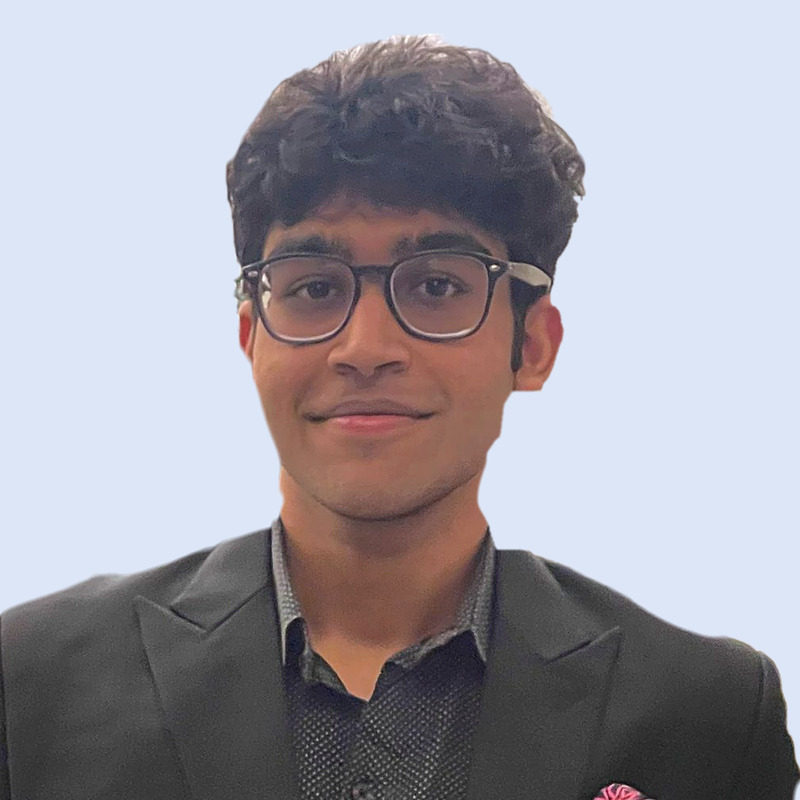
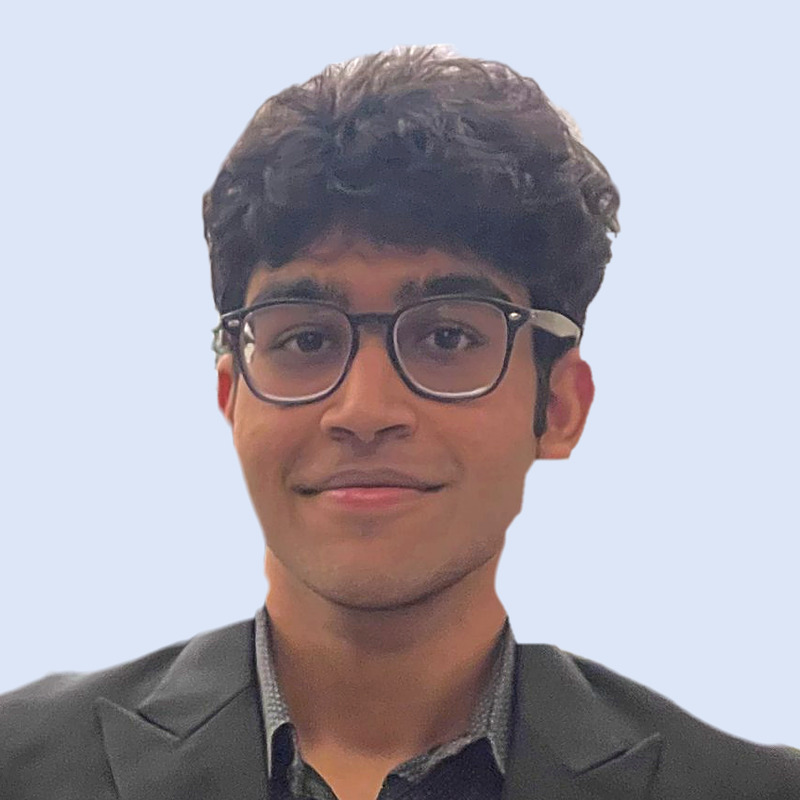
Yash photo: balanced head-and-shoulders crop

diff --git a/about.html b/about.html
@@ -4,7 +4,7 @@
 <link rel="icon" href="assets/img/mark.png">
 <link rel="preconnect" href="https://fonts.googleapis.com"><link rel="preconnect" href="https://fonts.gstatic.com" crossorigin>
 <link href="https://fonts.googleapis.com/css2?family=Hanken+Grotesk:wght@400;500;600;700&family=Inter:wght@400;500;600&family=Manrope:wght@500;700;800&display=swap" rel="stylesheet">
-<link rel="stylesheet" href="assets/styles.css?v=1795847601"></head>
+<link rel="stylesheet" href="assets/styles.css?v=1795847630"></head>
 <body><header class="site-header"><div class="wrap bar">
 <a class="logo" href="index.html" aria-label="ARRON home"><img src="assets/img/logo.png" alt="ARRON — Ahead of now" width="960" height="234" style="height:54px;width:auto;max-width:none;flex:none;aspect-ratio:960/234"></a>
 <button class="burger" aria-label="Menu"><span></span><span></span></button>
@@ -37,4 +37,4 @@
 <div><h4>Industries</h4><ul><li><a href="banking.html">Banking & Financial Services</a></li><li><a href="manufacturing.html">Manufacturing</a></li><li><a href="retail.html">Retail & Consumer</a></li><li><a href="telecom.html">Telecom</a></li><li><a href="healthcare.html">Healthcare</a></li></ul></div>
 <div><h4>Company</h4><ul><li><a href="about.html">About ARRON</a></li><li><a href="proven-experience.html">Proven Experience</a></li><li><a href="insights.html">Our Insights</a></li><li><a href="careers.html">Careers</a></li><li><a href="mailto:RajitM@arrontechnologies.com">RajitM@arrontechnologies.com</a></li><li><a href="mailto:Annad@arrontechnologies.com">Annad@arrontechnologies.com</a></li></ul></div></div>
 <div class="fb"><span>© 2026 ARRON Technologies. All rights reserved.</span><span>Dallas, Texas · Louisville · Houston · Delhi NCR · Pune · Bangalore</span></div></div></footer>
-<script src="assets/main.js?v=1795847601"></script></body></html>
+<script src="assets/main.js?v=1795847630"></script></body></html>

diff --git a/ai.html b/ai.html
@@ -4,7 +4,7 @@
 <link rel="icon" href="assets/img/mark.png">
 <link rel="preconnect" href="https://fonts.googleapis.com"><link rel="preconnect" href="https://fonts.gstatic.com" crossorigin>
 <link href="https://fonts.googleapis.com/css2?family=Hanken+Grotesk:wght@400;500;600;700&family=Inter:wght@400;500;600&family=Manrope:wght@500;700;800&display=swap" rel="stylesheet">
-<link rel="stylesheet" href="assets/styles.css?v=1795847601"></head>
+<link rel="stylesheet" href="assets/styles.css?v=1795847630"></head>
 <body><header class="site-header"><div class="wrap bar">
 <a class="logo" href="index.html" aria-label="ARRON home"><img src="assets/img/logo.png" alt="ARRON — Ahead of now" width="960" height="234" style="height:54px;width:auto;max-width:none;flex:none;aspect-ratio:960/234"></a>
 <button class="burger" aria-label="Menu"><span></span><span></span></button>
@@ -26,4 +26,4 @@
 <div><h4>Industries</h4><ul><li><a href="banking.html">Banking & Financial Services</a></li><li><a href="manufacturing.html">Manufacturing</a></li><li><a href="retail.html">Retail & Consumer</a></li><li><a href="telecom.html">Telecom</a></li><li><a href="healthcare.html">Healthcare</a></li></ul></div>
 <div><h4>Company</h4><ul><li><a href="about.html">About ARRON</a></li><li><a href="proven-experience.html">Proven Experience</a></li><li><a href="insights.html">Our Insights</a></li><li><a href="careers.html">Careers</a></li><li><a href="mailto:RajitM@arrontechnologies.com">RajitM@arrontechnologies.com</a></li><li><a href="mailto:Annad@arrontechnologies.com">Annad@arrontechnologies.com</a></li></ul></div></div>
 <div class="fb"><span>© 2026 ARRON Technologies. All rights reserved.</span><span>Dallas, Texas · Louisville · Houston · Delhi NCR · Pune · Bangalore</span></div></div></footer>
-<script src="assets/main.js?v=1795847601"></script></body></html>
+<script src="assets/main.js?v=1795847630"></script></body></html>

diff --git a/arron-ai.html b/arron-ai.html
@@ -4,7 +4,7 @@
 <link rel="icon" href="assets/img/mark.png">
 <link rel="preconnect" href="https://fonts.googleapis.com"><link rel="preconnect" href="https://fonts.gstatic.com" crossorigin>
 <link href="https://fonts.googleapis.com/css2?family=Hanken+Grotesk:wght@400;500;600;700&family=Inter:wght@400;500;600&family=Manrope:wght@500;700;800&display=swap" rel="stylesheet">
-<link rel="stylesheet" href="assets/styles.css?v=1795847601"></head>
+<link rel="stylesheet" href="assets/styles.css?v=1795847630"></head>
 <body><header class="site-header"><div class="wrap bar">
 <a class="logo" href="index.html" aria-label="ARRON home"><img src="assets/img/logo.png" alt="ARRON — Ahead of now" width="960" height="234" style="height:54px;width:auto;max-width:none;flex:none;aspect-ratio:960/234"></a>
 <button class="burger" aria-label="Menu"><span></span><span></span></button>
@@ -30,4 +30,4 @@
 <div><h4>Industries</h4><ul><li><a href="banking.html">Banking & Financial Services</a></li><li><a href="manufacturing.html">Manufacturing</a></li><li><a href="retail.html">Retail & Consumer</a></li><li><a href="telecom.html">Telecom</a></li><li><a href="healthcare.html">Healthcare</a></li></ul></div>
 <div><h4>Company</h4><ul><li><a href="about.html">About ARRON</a></li><li><a href="proven-experience.html">Proven Experience</a></li><li><a href="insights.html">Our Insights</a></li><li><a href="careers.html">Careers</a></li><li><a href="mailto:RajitM@arrontechnologies.com">RajitM@arrontechnologies.com</a></li><li><a href="mailto:Annad@arrontechnologies.com">Annad@arrontechnologies.com</a></li></ul></div></div>
 <div class="fb"><span>© 2026 ARRON Technologies. All rights reserved.</span><span>Dallas, Texas · Louisville · Houston · Delhi NCR · Pune · Bangalore</span></div></div></footer>
-<script src="assets/main.js?v=1795847601"></script></body></html>
+<script src="assets/main.js?v=1795847630"></script></body></html>

diff --git a/banking.html b/banking.html
@@ -4,7 +4,7 @@
 <link rel="icon" href="assets/img/mark.png">
 <link rel="preconnect" href="https://fonts.googleapis.com"><link rel="preconnect" href="https://fonts.gstatic.com" crossorigin>
 <link href="https://fonts.googleapis.com/css2?family=Hanken+Grotesk:wght@400;500;600;700&family=Inter:wght@400;500;600&family=Manrope:wght@500;700;800&display=swap" rel="stylesheet">
-<link rel="stylesheet" href="assets/styles.css?v=1795847601"></head>
+<link rel="stylesheet" href="assets/styles.css?v=1795847630"></head>
 <body><header class="site-header"><div class="wrap bar">
 <a class="logo" href="index.html" aria-label="ARRON home"><img src="assets/img/logo.png" alt="ARRON — Ahead of now" width="960" height="234" style="height:54px;width:auto;max-width:none;flex:none;aspect-ratio:960/234"></a>
 <button class="burger" aria-label="Menu"><span></span><span></span></button>
@@ -19,4 +19,4 @@
 <div><h4>Industries</h4><ul><li><a href="banking.html">Banking & Financial Services</a></li><li><a href="manufacturing.html">Manufacturing</a></li><li><a href="retail.html">Retail & Consumer</a></li><li><a href="telecom.html">Telecom</a></li><li><a href="healthcare.html">Healthcare</a></li></ul></div>
 <div><h4>Company</h4><ul><li><a href="about.html">About ARRON</a></li><li><a href="proven-experience.html">Proven Experience</a></li><li><a href="insights.html">Our Insights</a></li><li><a href="careers.html">Careers</a></li><li><a href="mailto:RajitM@arrontechnologies.com">RajitM@arrontechnologies.com</a></li><li><a href="mailto:Annad@arrontechnologies.com">Annad@arrontechnologies.com</a></li></ul></div></div>
 <div class="fb"><span>© 2026 ARRON Technologies. All rights reserved.</span><span>Dallas, Texas · Louisville · Houston · Delhi NCR · Pune · Bangalore</span></div></div></footer>
-<script src="assets/main.js?v=1795847601"></script></body></html>
+<script src="assets/main.js?v=1795847630"></script></body></html>

diff --git a/blog.html b/blog.html
@@ -4,7 +4,7 @@
 <link rel="icon" href="assets/img/mark.png">
 <link rel="preconnect" href="https://fonts.googleapis.com"><link rel="preconnect" href="https://fonts.gstatic.com" crossorigin>
 <link href="https://fonts.googleapis.com/css2?family=Hanken+Grotesk:wght@400;500;600;700&family=Inter:wght@400;500;600&family=Manrope:wght@500;700;800&display=swap" rel="stylesheet">
-<link rel="stylesheet" href="assets/styles.css?v=1795847601"></head>
+<link rel="stylesheet" href="assets/styles.css?v=1795847630"></head>
 <body><header class="site-header"><div class="wrap bar">
 <a class="logo" href="index.html" aria-label="ARRON home"><img src="assets/img/logo.png" alt="ARRON — Ahead of now" width="960" height="234" style="height:54px;width:auto;max-width:none;flex:none;aspect-ratio:960/234"></a>
 <button class="burger" aria-label="Menu"><span></span><span></span></button>
@@ -22,4 +22,4 @@
 <div><h4>Industries</h4><ul><li><a href="banking.html">Banking & Financial Services</a></li><li><a href="manufacturing.html">Manufacturing</a></li><li><a href="retail.html">Retail & Consumer</a></li><li><a href="telecom.html">Telecom</a></li><li><a href="healthcare.html">Healthcare</a></li></ul></div>
 <div><h4>Company</h4><ul><li><a href="about.html">About ARRON</a></li><li><a href="proven-experience.html">Proven Experience</a></li><li><a href="insights.html">Our Insights</a></li><li><a href="careers.html">Careers</a></li><li><a href="mailto:RajitM@arrontechnologies.com">RajitM@arrontechnologies.com</a></li><li><a href="mailto:Annad@arrontechnologies.com">Annad@arrontechnologies.com</a></li></ul></div></div>
 <div class="fb"><span>© 2026 ARRON Technologies. All rights reserved.</span><span>Dallas, Texas · Louisville · Houston · Delhi NCR · Pune · Bangalore</span></div></div></footer>
-<script src="assets/main.js?v=1795847601"></script></body></html>
+<script src="assets/main.js?v=1795847630"></script></body></html>

diff --git a/capabilities.html b/capabilities.html
@@ -4,7 +4,7 @@
 <link rel="icon" href="assets/img/mark.png">
 <link rel="preconnect" href="https://fonts.googleapis.com"><link rel="preconnect" href="https://fonts.gstatic.com" crossorigin>
 <link href="https://fonts.googleapis.com/css2?family=Hanken+Grotesk:wght@400;500;600;700&family=Inter:wght@400;500;600&family=Manrope:wght@500;700;800&display=swap" rel="stylesheet">
-<link rel="stylesheet" href="assets/styles.css?v=1795847601"></head>
+<link rel="stylesheet" href="assets/styles.css?v=1795847630"></head>
 <body><header class="site-header"><div class="wrap bar">
 <a class="logo" href="index.html" aria-label="ARRON home"><img src="assets/img/logo.png" alt="ARRON — Ahead of now" width="960" height="234" style="height:54px;width:auto;max-width:none;flex:none;aspect-ratio:960/234"></a>
 <button class="burger" aria-label="Menu"><span></span><span></span></button>
@@ -24,4 +24,4 @@
 <div><h4>Industries</h4><ul><li><a href="banking.html">Banking & Financial Services</a></li><li><a href="manufacturing.html">Manufacturing</a></li><li><a href="retail.html">Retail & Consumer</a></li><li><a href="telecom.html">Telecom</a></li><li><a href="healthcare.html">Healthcare</a></li></ul></div>
 <div><h4>Company</h4><ul><li><a href="about.html">About ARRON</a></li><li><a href="proven-experience.html">Proven Experience</a></li><li><a href="insights.html">Our Insights</a></li><li><a href="careers.html">Careers</a></li><li><a href="mailto:RajitM@arrontechnologies.com">RajitM@arrontechnologies.com</a></li><li><a href="mailto:Annad@arrontechnologies.com">Annad@arrontechnologies.com</a></li></ul></div></div>
 <div class="fb"><span>© 2026 ARRON Technologies. All rights reserved.</span><span>Dallas, Texas · Louisville · Houston · Delhi NCR · Pune · Bangalore</span></div></div></footer>
-<script src="assets/main.js?v=1795847601"></script></body></html>
+<script src="assets/main.js?v=1795847630"></script></body></html>

diff --git a/careers.html b/careers.html
@@ -4,7 +4,7 @@
 <link rel="icon" href="assets/img/mark.png">
 <link rel="preconnect" href="https://fonts.googleapis.com"><link rel="preconnect" href="https://fonts.gstatic.com" crossorigin>
 <link href="https://fonts.googleapis.com/css2?family=Hanken+Grotesk:wght@400;500;600;700&family=Inter:wght@400;500;600&family=Manrope:wght@500;700;800&display=swap" rel="stylesheet">
-<link rel="stylesheet" href="assets/styles.css?v=1795847601"></head>
+<link rel="stylesheet" href="assets/styles.css?v=1795847630"></head>
 <body><header class="site-header"><div class="wrap bar">
 <a class="logo" href="index.html" aria-label="ARRON home"><img src="assets/img/logo.png" alt="ARRON — Ahead of now" width="960" height="234" style="height:54px;width:auto;max-width:none;flex:none;aspect-ratio:960/234"></a>
 <button class="burger" aria-label="Menu"><span></span><span></span></button>
@@ -19,4 +19,4 @@
 <div><h4>Industries</h4><ul><li><a href="banking.html">Banking & Financial Services</a></li><li><a href="manufacturing.html">Manufacturing</a></li><li><a href="retail.html">Retail & Consumer</a></li><li><a href="telecom.html">Telecom</a></li><li><a href="healthcare.html">Healthcare</a></li></ul></div>
 <div><h4>Company</h4><ul><li><a href="about.html">About ARRON</a></li><li><a href="proven-experience.html">Proven Experience</a></li><li><a href="insights.html">Our Insights</a></li><li><a href="careers.html">Careers</a></li><li><a href="mailto:RajitM@arrontechnologies.com">RajitM@arrontechnologies.com</a></li><li><a href="mailto:Annad@arrontechnologies.com">Annad@arrontechnologies.com</a></li></ul></div></div>
 <div class="fb"><span>© 2026 ARRON Technologies. All rights reserved.</span><span>Dallas, Texas · Louisville · Houston · Delhi NCR · Pune · Bangalore</span></div></div></footer>
-<script src="assets/main.js?v=1795847601"></script></body></html>
+<script src="assets/main.js?v=1795847630"></script></body></html>

diff --git a/case-studies.html b/case-studies.html
@@ -4,7 +4,7 @@
 <link rel="icon" href="assets/img/mark.png">
 <link rel="preconnect" href="https://fonts.googleapis.com"><link rel="preconnect" href="https://fonts.gstatic.com" crossorigin>
 <link href="https://fonts.googleapis.com/css2?family=Hanken+Grotesk:wght@400;500;600;700&family=Inter:wght@400;500;600&family=Manrope:wght@500;700;800&display=swap" rel="stylesheet">
-<link rel="stylesheet" href="assets/styles.css?v=1795847601"></head>
+<link rel="stylesheet" href="assets/styles.css?v=1795847630"></head>
 <body><header class="site-header"><div class="wrap bar">
 <a class="logo" href="index.html" aria-label="ARRON home"><img src="assets/img/logo.png" alt="ARRON — Ahead of now" width="960" height="234" style="height:54px;width:auto;max-width:none;flex:none;aspect-ratio:960/234"></a>
 <button class="burger" aria-label="Menu"><span></span><span></span></button>
@@ -20,4 +20,4 @@
 <div><h4>Industries</h4><ul><li><a href="banking.html">Banking & Financial Services</a></li><li><a href="manufacturing.html">Manufacturing</a></li><li><a href="retail.html">Retail & Consumer</a></li><li><a href="telecom.html">Telecom</a></li><li><a href="healthcare.html">Healthcare</a></li></ul></div>
 <div><h4>Company</h4><ul><li><a href="about.html">About ARRON</a></li><li><a href="proven-experience.html">Proven Experience</a></li><li><a href="insights.html">Our Insights</a></li><li><a href="careers.html">Careers</a></li><li><a href="mailto:RajitM@arrontechnologies.com">RajitM@arrontechnologies.com</a></li><li><a href="mailto:Annad@arrontechnologies.com">Annad@arrontechnologies.com</a></li></ul></div></div>
 <div class="fb"><span>© 2026 ARRON Technologies. All rights reserved.</span><span>Dallas, Texas · Louisville · Houston · Delhi NCR · Pune · Bangalore</span></div></div></footer>
-<script src="assets/main.js?v=1795847601"></script></body></html>
+<script src="assets/main.js?v=1795847630"></script></body></html>

diff --git a/client-stories.html b/client-stories.html
@@ -4,7 +4,7 @@
 <link rel="icon" href="assets/img/mark.png">
 <link rel="preconnect" href="https://fonts.googleapis.com"><link rel="preconnect" href="https://fonts.gstatic.com" crossorigin>
 <link href="https://fonts.googleapis.com/css2?family=Hanken+Grotesk:wght@400;500;600;700&family=Inter:wght@400;500;600&family=Manrope:wght@500;700;800&display=swap" rel="stylesheet">
-<link rel="stylesheet" href="assets/styles.css?v=1795847601"></head>
+<link rel="stylesheet" href="assets/styles.css?v=1795847630"></head>
 <body><header class="site-header"><div class="wrap bar">
 <a class="logo" href="index.html" aria-label="ARRON home"><img src="assets/img/logo.png" alt="ARRON — Ahead of now" width="960" height="234" style="height:54px;width:auto;max-width:none;flex:none;aspect-ratio:960/234"></a>
 <button class="burger" aria-label="Menu"><span></span><span></span></button>
@@ -20,4 +20,4 @@
 <div><h4>Industries</h4><ul><li><a href="banking.html">Banking & Financial Services</a></li><li><a href="manufacturing.html">Manufacturing</a></li><li><a href="retail.html">Retail & Consumer</a></li><li><a href="telecom.html">Telecom</a></li><li><a href="healthcare.html">Healthcare</a></li></ul></div>
 <div><h4>Company</h4><ul><li><a href="about.html">About ARRON</a></li><li><a href="proven-experience.html">Proven Experience</a></li><li><a href="insights.html">Our Insights</a></li><li><a href="careers.html">Careers</a></li><li><a href="mailto:RajitM@arrontechnologies.com">RajitM@arrontechnologies.com</a></li><li><a href="mailto:Annad@arrontechnologies.com">Annad@arrontechnologies.com</a></li></ul></div></div>
 <div class="fb"><span>© 2026 ARRON Technologies. All rights reserved.</span><span>Dallas, Texas · Louisville · Houston · Delhi NCR · Pune · Bangalore</span></div></div></footer>
-<script src="assets/main.js?v=1795847601"></script></body></html>
+<script src="assets/main.js?v=1795847630"></script></body></html>

diff --git a/connect-ai.html b/connect-ai.html
@@ -4,7 +4,7 @@
 <link rel="icon" href="assets/img/mark.png">
 <link rel="preconnect" href="https://fonts.googleapis.com"><link rel="preconnect" href="https://fonts.gstatic.com" crossorigin>
 <link href="https://fonts.googleapis.com/css2?family=Hanken+Grotesk:wght@400;500;600;700&family=Inter:wght@400;500;600&family=Manrope:wght@500;700;800&display=swap" rel="stylesheet">
-<link rel="stylesheet" href="assets/styles.css?v=1795847601"></head>
+<link rel="stylesheet" href="assets/styles.css?v=1795847630"></head>
 <body><header class="site-header"><div class="wrap bar">
 <a class="logo" href="index.html" aria-label="ARRON home"><img src="assets/img/logo.png" alt="ARRON — Ahead of now" width="960" height="234" style="height:54px;width:auto;max-width:none;flex:none;aspect-ratio:960/234"></a>
 <button class="burger" aria-label="Menu"><span></span><span></span></button>
@@ -30,4 +30,4 @@
 <div><h4>Industries</h4><ul><li><a href="banking.html">Banking & Financial Services</a></li><li><a href="manufacturing.html">Manufacturing</a></li><li><a href="retail.html">Retail & Consumer</a></li><li><a href="telecom.html">Telecom</a></li><li><a href="healthcare.html">Healthcare</a></li></ul></div>
 <div><h4>Company</h4><ul><li><a href="about.html">About ARRON</a></li><li><a href="proven-experience.html">Proven Experience</a></li><li><a href="insights.html">Our Insights</a></li><li><a href="careers.html">Careers</a></li><li><a href="mailto:RajitM@arrontechnologies.com">RajitM@arrontechnologies.com</a></li><li><a href="mailto:Annad@arrontechnologies.com">Annad@arrontechnologies.com</a></li></ul></div></div>
 <div class="fb"><span>© 2026 ARRON Technologies. All rights reserved.</span><span>Dallas, Texas · Louisville · Houston · Delhi NCR · Pune · Bangalore</span></div></div></footer>
-<script src="assets/main.js?v=1795847601"></script></body></html>
+<script src="assets/main.js?v=1795847630"></script></body></html>

diff --git a/consultants.html b/consultants.html
@@ -4,7 +4,7 @@
 <link rel="icon" href="assets/img/mark.png">
 <link rel="preconnect" href="https://fonts.googleapis.com"><link rel="preconnect" href="https://fonts.gstatic.com" crossorigin>
 <link href="https://fonts.googleapis.com/css2?family=Hanken+Grotesk:wght@400;500;600;700&family=Inter:wght@400;500;600&family=Manrope:wght@500;700;800&display=swap" rel="stylesheet">
-<link rel="stylesheet" href="assets/styles.css?v=1795847601"></head>
+<link rel="stylesheet" href="assets/styles.css?v=1795847630"></head>
 <body><header class="site-header"><div class="wrap bar">
 <a class="logo" href="index.html" aria-label="ARRON home"><img src="assets/img/logo.png" alt="ARRON — Ahead of now" width="960" height="234" style="height:54px;width:auto;max-width:none;flex:none;aspect-ratio:960/234"></a>
 <button class="burger" aria-label="Menu"><span></span><span></span></button>
@@ -19,4 +19,4 @@
 <div><h4>Industries</h4><ul><li><a href="banking.html">Banking & Financial Services</a></li><li><a href="manufacturing.html">Manufacturing</a></li><li><a href="retail.html">Retail & Consumer</a></li><li><a href="telecom.html">Telecom</a></li><li><a href="healthcare.html">Healthcare</a></li></ul></div>
 <div><h4>Company</h4><ul><li><a href="about.html">About ARRON</a></li><li><a href="proven-experience.html">Proven Experience</a></li><li><a href="insights.html">Our Insights</a></li><li><a href="careers.html">Careers</a></li><li><a href="mailto:RajitM@arrontechnologies.com">RajitM@arrontechnologies.com</a></li><li><a href="mailto:Annad@arrontechnologies.com">Annad@arrontechnologies.com</a></li></ul></div></div>
 <div class="fb"><span>© 2026 ARRON Technologies. All rights reserved.</span><span>Dallas, Texas · Louisville · Houston · Delhi NCR · Pune · Bangalore</span></div></div></footer>
-<script src="assets/main.js?v=1795847601"></script></body></html>
+<script src="assets/main.js?v=1795847630"></script></body></html>

diff --git a/consulting.html b/consulting.html
@@ -4,7 +4,7 @@
 <link rel="icon" href="assets/img/mark.png">
 <link rel="preconnect" href="https://fonts.googleapis.com"><link rel="preconnect" href="https://fonts.gstatic.com" crossorigin>
 <link href="https://fonts.googleapis.com/css2?family=Hanken+Grotesk:wght@400;500;600;700&family=Inter:wght@400;500;600&family=Manrope:wght@500;700;800&display=swap" rel="stylesheet">
-<link rel="stylesheet" href="assets/styles.css?v=1795847601"></head>
+<link rel="stylesheet" href="assets/styles.css?v=1795847630"></head>
 <body><header class="site-header"><div class="wrap bar">
 <a class="logo" href="index.html" aria-label="ARRON home"><img src="assets/img/logo.png" alt="ARRON — Ahead of now" width="960" height="234" style="height:54px;width:auto;max-width:none;flex:none;aspect-ratio:960/234"></a>
 <button class="burger" aria-label="Menu"><span></span><span></span></button>
@@ -22,4 +22,4 @@
 <div><h4>Industries</h4><ul><li><a href="banking.html">Banking & Financial Services</a></li><li><a href="manufacturing.html">Manufacturing</a></li><li><a href="retail.html">Retail & Consumer</a></li><li><a href="telecom.html">Telecom</a></li><li><a href="healthcare.html">Healthcare</a></li></ul></div>
 <div><h4>Company</h4><ul><li><a href="about.html">About ARRON</a></li><li><a href="proven-experience.html">Proven Experience</a></li><li><a href="insights.html">Our Insights</a></li><li><a href="careers.html">Careers</a></li><li><a href="mailto:RajitM@arrontechnologies.com">RajitM@arrontechnologies.com</a></li><li><a href="mailto:Annad@arrontechnologies.com">Annad@arrontechnologies.com</a></li></ul></div></div>
 <div class="fb"><span>© 2026 ARRON Technologies. All rights reserved.</span><span>Dallas, Texas · Louisville · Houston · Delhi NCR · Pune · Bangalore</span></div></div></footer>
-<script src="assets/main.js?v=1795847601"></script></body></html>
+<script src="assets/main.js?v=1795847630"></script></body></html>
